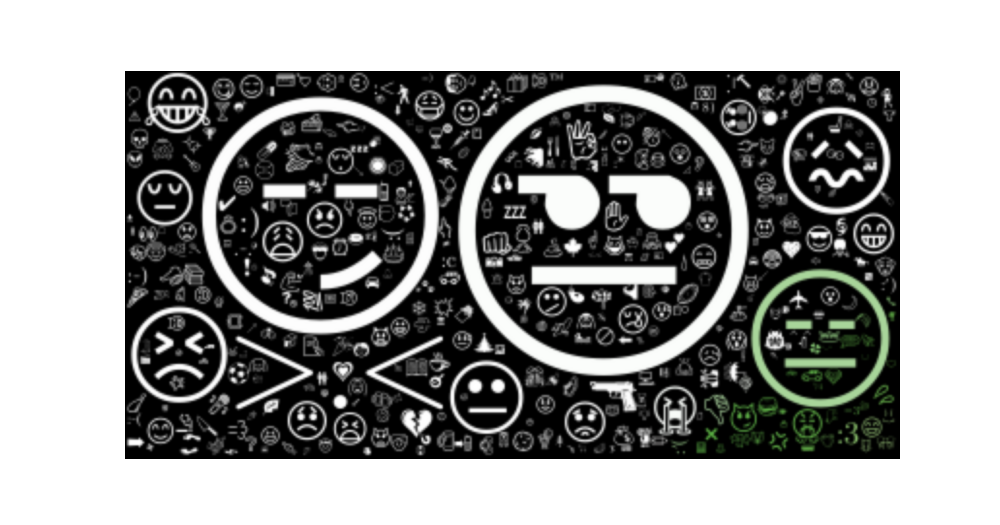
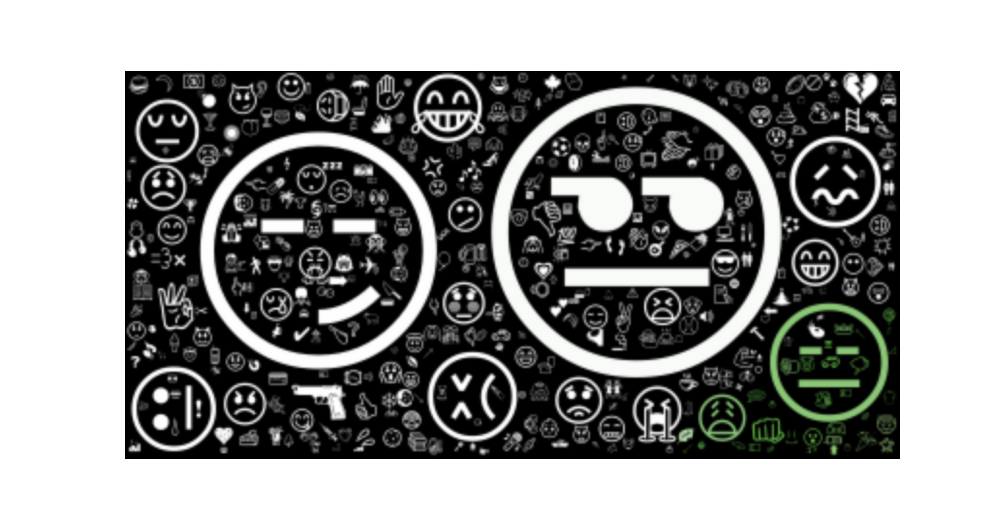
wordcloud creation for emoticon is done + new emoticons added

diff --git a/src/wordcloudgenerator.py b/src/wordcloudgenerator.py
@@ -10,19 +10,20 @@ from src.file_manager import get_project_root
 
 
 class WordCloudCreator:
-    def __init__(self, wordlist: [], emoji_list: []):
+    def __init__(self, wordlist: [], emoji_list: [], emoticon_list: []):
         self.wordlist = wordlist
         self.emoji_list = emoji_list
+        self.emoticon_list = emoticon_list
 
     def generate(self):
-        # self.__generate_emotion_plot(dict(self.wordlist[0]), 'anger')
-        # self.__generate_emotion_plot(dict(self.wordlist[1]), 'anticipation')
-        # self.__generate_emotion_plot(dict(self.wordlist[2]), 'disgust')
-        # self.__generate_emotion_plot(dict(self.wordlist[3]), 'fear')
-        # self.__generate_emotion_plot(dict(self.wordlist[4]), 'joy')
-        # self.__generate_emotion_plot(dict(self.wordlist[5]), 'sadness')
-        # self.__generate_emotion_plot(dict(self.wordlist[6]), 'surprise')
-        # self.__generate_emotion_plot(dict(self.wordlist[7]), 'trust')
+        self.__generate_emotion_plot(dict(self.wordlist[0]), 'anger')
+        self.__generate_emotion_plot(dict(self.wordlist[1]), 'anticipation')
+        self.__generate_emotion_plot(dict(self.wordlist[2]), 'disgust')
+        self.__generate_emotion_plot(dict(self.wordlist[3]), 'fear')
+        self.__generate_emotion_plot(dict(self.wordlist[4]), 'joy')
+        self.__generate_emotion_plot(dict(self.wordlist[5]), 'sadness')
+        self.__generate_emotion_plot(dict(self.wordlist[6]), 'surprise')
+        self.__generate_emotion_plot(dict(self.wordlist[7]), 'trust')
         self.__generate_emotion_plot(dict(self.emoji_list[0]), 'anger_emoji', extension='png', emoji=True)
         self.__generate_emotion_plot(dict(self.emoji_list[1]), 'anticipation_emoji', emoji=True)
         self.__generate_emotion_plot(dict(self.emoji_list[2]), 'disgust_emoji', emoji=True)
@@ -31,6 +32,14 @@ class WordCloudCreator:
         self.__generate_emotion_plot(dict(self.emoji_list[5]), 'sadness_emoji', emoji=True)
         self.__generate_emotion_plot(dict(self.emoji_list[6]), 'surprise_emoji', emoji=True)
         self.__generate_emotion_plot(dict(self.emoji_list[7]), 'trust_emoji', emoji=True)
+        self.__generate_emoticon_plot(dict(self.emoticon_list[0]), 'anger')
+        self.__generate_emoticon_plot(dict(self.emoticon_list[1]), 'anticipation')
+        self.__generate_emoticon_plot(dict(self.emoticon_list[2]), 'disgust')
+        self.__generate_emoticon_plot(dict(self.emoticon_list[3]), 'fear')
+        self.__generate_emoticon_plot(dict(self.emoticon_list[4]), 'joy')
+        self.__generate_emoticon_plot(dict(self.emoticon_list[5]), 'sadness')
+        self.__generate_emoticon_plot(dict(self.emoticon_list[6]), 'surprise')
+        self.__generate_emoticon_plot(dict(self.emoticon_list[7]), 'trust')
 
     def __preprocess_wordlist(self, wordlist):
         [wordlist.pop(key) for key in self.__get_stopwords() if key in wordlist]
@@ -52,16 +61,30 @@ class WordCloudCreator:
                                    mask=colored_image,
                                    random_state=42)
             plt.figure(figsize=(20, 11.25), dpi=96)
+            wordlist = self.__preprocess_wordlist(wordlist)
         else:
             font_path = f"{get_project_root()}/Resources/fonts/symbola.otf"
             wordobject = WordCloud(background_color='black',
                                    max_words=500,
                                    font_path=font_path)
             plt.figure(figsize=(10, 5.25))
-        wordlist = self.__preprocess_wordlist(wordlist)
         wordcl = wordobject.generate_from_frequencies(wordlist)
         plt.imshow(wordcl.recolor(color_func=image_colors), interpolation='gaussian')
         plt.axis('off')
         plt.savefig(f"{get_project_root()}/Resources/images/{emotion}_plot.png")
+        end = timer()
+        print(f"Done creating the image in {end - start} seconds")
+
+    @staticmethod
+    def __generate_emoticon_plot(emoticon_list, emotion: str):
+        print(f"Creating the image for emotion-emoticon: {emotion}")
+        start = timer()
+        wordobject = WordCloud(background_color='black',
+                               max_words=1000)
+        plt.figure(figsize=(10, 5.25))
+        wordcl = wordobject.generate_from_frequencies(emoticon_list)
+        plt.imshow(wordcl)
+        plt.axis('off')
+        plt.savefig(f"{get_project_root()}/Resources/images/{emotion}_emoticon_plot.png")
         end = timer()
         print(f"Done creating the image in {end - start} seconds")

diff --git a/src/natural.py b/src/natural.py
@@ -84,8 +84,8 @@ def count_emojis(count_tuples):
     @param count_tuples:
     @return: list of Count tuples
     """
-    return [item for item in count_tuples.most_common() if item[0] in UNICODE_EMOJI_ENGLISH
-            or item[0] in posemoticons or item[0] in negemoticons]
+    return [item for item in count_tuples.most_common() if item[0] in UNICODE_EMOJI_ENGLISH], \
+           [item for item in count_tuples.most_common() if item[0] in posemoticons or item[0] in negemoticons]
 
 
 def exclude_hastags_emojis(count_tuples):
@@ -119,11 +119,11 @@ def process_dataset(file_path: str):
         wordlist.append(processed_phrase)
     count_tuples = count_words(wordlist)
     most_used_hashtags = count_hashtags(count_tuples)
-    emojis = count_emojis(count_tuples)
+    emojis, emoticons = count_emojis(count_tuples)
     count_tuples = exclude_hastags_emojis(count_tuples)
     end = timer()
     print(f"Done processing in {end - start} seconds")
-    return count_tuples, most_used_hashtags, emojis
+    return count_tuples, most_used_hashtags, emojis, emoticons
 
 
 def convert_to_set(dataset):
@@ -179,22 +179,26 @@ def quickstart():
     Quick start of the dataset sentiment analysis.
     """
     sentiment_files = get_sentiment_tweets()
-    anger_words, anger_hashtags, anger_emojis = process_dataset(sentiment_files[0][0])
-    anticipation_words, anticipation_hashtags, anticipation_emojis = process_dataset(sentiment_files[1][0])
-    disgust_words, disgust_hashtags, disgust_emojis = process_dataset(sentiment_files[2][0])
-    fear_words, fear_hashtags, fear_emojis = process_dataset(sentiment_files[3][0])
-    joy_words, joy_hashtags, joy_emojis = process_dataset(sentiment_files[4][0])
-    sadness_words, sadness_hashtags, sadness_emojis = process_dataset(sentiment_files[5][0])
-    surprise_words, surprise_hashtags, surprise_emojis = process_dataset(sentiment_files[6][0])
-    trust_words, trust_hashtags, trust_emojis = process_dataset(sentiment_files[7][0])
+    anger_words, anger_hashtags, anger_emojis, anger_emoticons = process_dataset(sentiment_files[0][0])
+    anticipation_words, anticipation_hashtags, anticipation_emojis, anticipation_emoticons = process_dataset(
+        sentiment_files[1][0])
+    disgust_words, disgust_hashtags, disgust_emojis, disgust_emoticons = process_dataset(sentiment_files[2][0])
+    fear_words, fear_hashtags, fear_emojis, fear_emoticons = process_dataset(sentiment_files[3][0])
+    joy_words, joy_hashtags, joy_emojis, joy_emoticons = process_dataset(sentiment_files[4][0])
+    sadness_words, sadness_hashtags, sadness_emojis, sadness_emoticons = process_dataset(sentiment_files[5][0])
+    surprise_words, surprise_hashtags, surprise_emojis, surprise_emoticons = process_dataset(sentiment_files[6][0])
+    trust_words, trust_hashtags, trust_emojis, trust_emoticons = process_dataset(sentiment_files[7][0])
     emoji_datasets = [anger_emojis, anticipation_emojis, disgust_emojis, fear_emojis, joy_emojis, sadness_emojis,
                       surprise_emojis, trust_emojis]
     word_datasets = [anger_words, anticipation_words, disgust_words, fear_words, joy_words, sadness_words,
                      surprise_words, trust_words]
+    emoticons_datasets = [anger_emoticons, anticipation_emoticons, disgust_emoticons, fear_emoticons, joy_emoticons,
+                          sadness_emoticons,
+                          surprise_emoticons, trust_emoticons]
     shared_words = check_shared_words(word_datasets)
     perc_calc = calc_perc_sharedwords(shared_words, word_datasets)
     pprint(perc_calc)
-    wordcl = WordCloudCreator(word_datasets, emoji_datasets)
+    wordcl = WordCloudCreator(word_datasets, emoji_datasets, emoticons_datasets)
     wordcl.generate()
     # create_definitions(word_datasets)
 

diff --git a/src/set_classification.py b/src/set_classification.py
@@ -18,13 +18,17 @@ slang_words = {'afaik': 'as far as i know', 'afk': 'away from keyboard', 'asap':
                'wtg': 'way to go!', 'wuf': 'where are you from?', 'w8': 'wait...', '7k': 'sick:-d laugher'}
 
 # emojis and emoticons sentiment polarization:
-posemoticons = ['B-)', ':)', ':-)', ":')", ":'-)", ':D', ':-D', ':\'-)', ":')", ':o)', ':]', ':3', ':c)', ':>', '=]',
+posemoticons = ['B-)', ':)', ':-)', ":')", ":'-)", ':D', ':-D', ':\'-)', ':o)', ':]', ':3', ':c)', ':>', '=]',
                 '8)', '=)', ':}', ':^)', '8-D', '8D', 'x-D', 'xD', 'X-D', 'XD', '=-D', '=D', '=-3', '=3', 'B^D',
-                ':-))', ':*', ':^*', '( \'}{\' )', '^^', '(^_^)', '^-^', "^.^", '^3^', '^L^']
+                ':-))', ':*', ':^*', '( \'}{\' )', '^^', '(^_^)', '^-^', "^.^", '^3^', '^L^', ':-]', ':-)', ':->',
+                ':-3', '8-)', ':-*', ';-)', ';)', ';-]', ';]', ';^)', ';D', '<3', 'owo', 'OwO', '#-)', '(=ʘᆽʘ=)∫',
+                '( ͡o ͜ʖ ͡o)', ':3ミ', 'C:', 'C-:', 'c:', ':p', ':-p', ':P', ':-P']
 
 negemoticons = [':(', ':-(', ":'(", ":'-(", '>:[', ':-c', ':c', ':-<', ':<', ':-[', ':[', ':{', ':\'-(', ':\'(',
                 ' _( ', ':\'[', "='(", "' [", "='[", ":'-<", ":' <", ":'<", "=' <", "='<", "T_T", "T.T", "(T_T)",
-                "y_y", "y.y", "(Y_Y)", ";-;", ";_;", ";.;", ":_:", "o .__. o", ".-.", '>:0', '._.', '_._', '>.<', '<.<']
+                "y_y", "y.y", "(Y_Y)", ";-;", ";_;", ";.;", ":_:", "o .__. o", ".-.", '>:0', '._.', '_._', '>.<',
+                '<.<', ':|', ':-|', ':-###..', ':###..', '</3', '<\\3', '(>_<)', '(>_<)>', '(*_*)', '(ノಠ益ಠ)ノ彡┻━┻', 'd:',
+                ':/', ':-/', ':\\', ':-\\']
 
 EmojiPos = [u'\U0001F601', u'\U0001F602', u'\U0001F603', u'\U0001F604', u'\U0001F605', u'\U0001F606', u'\U0001F609',
             u'\U0001F60A', u'\U0001F60B', u'\U0001F60E', u'\U0001F60D', u'\U0001F618', u'\U0001F617', u'\U0001F619',
